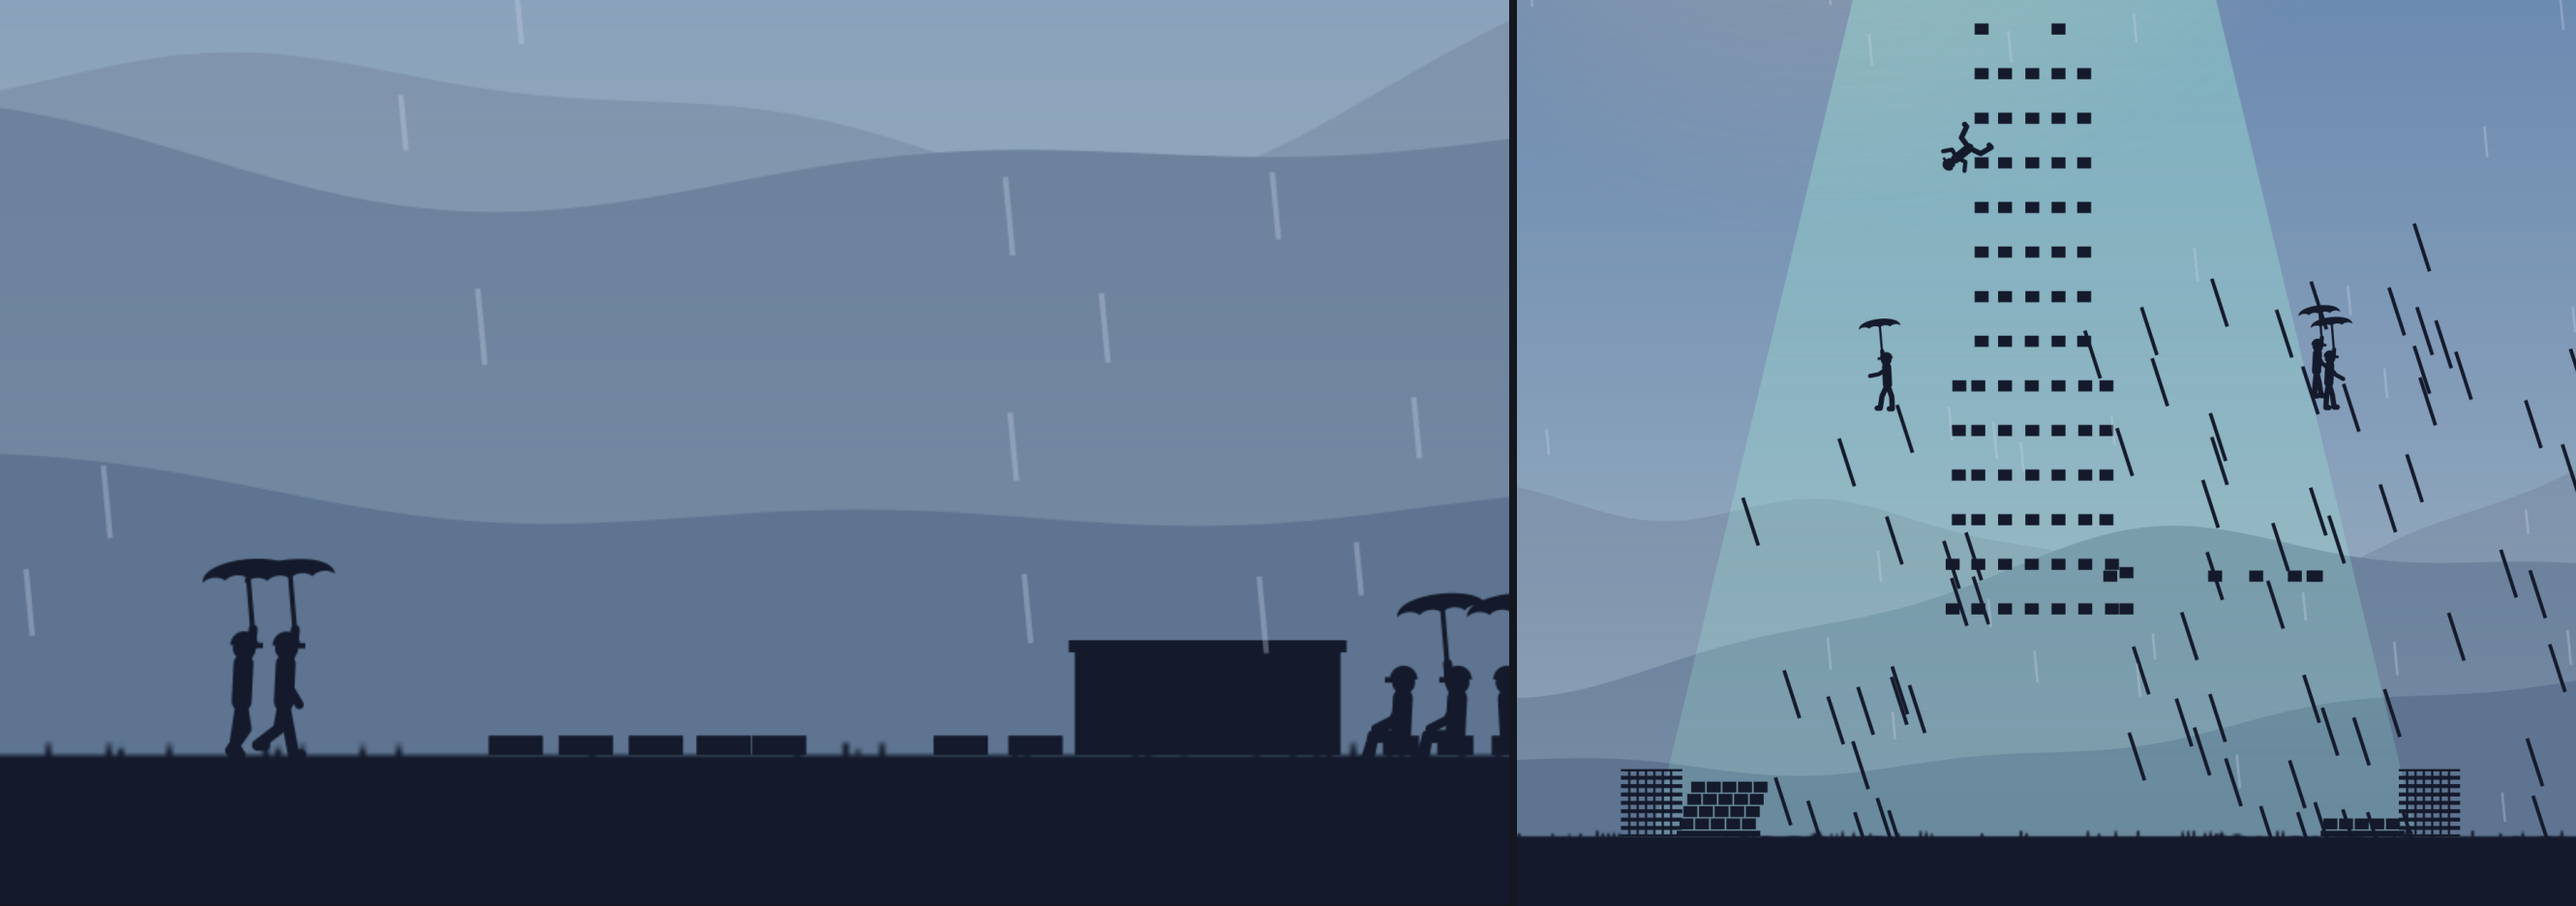
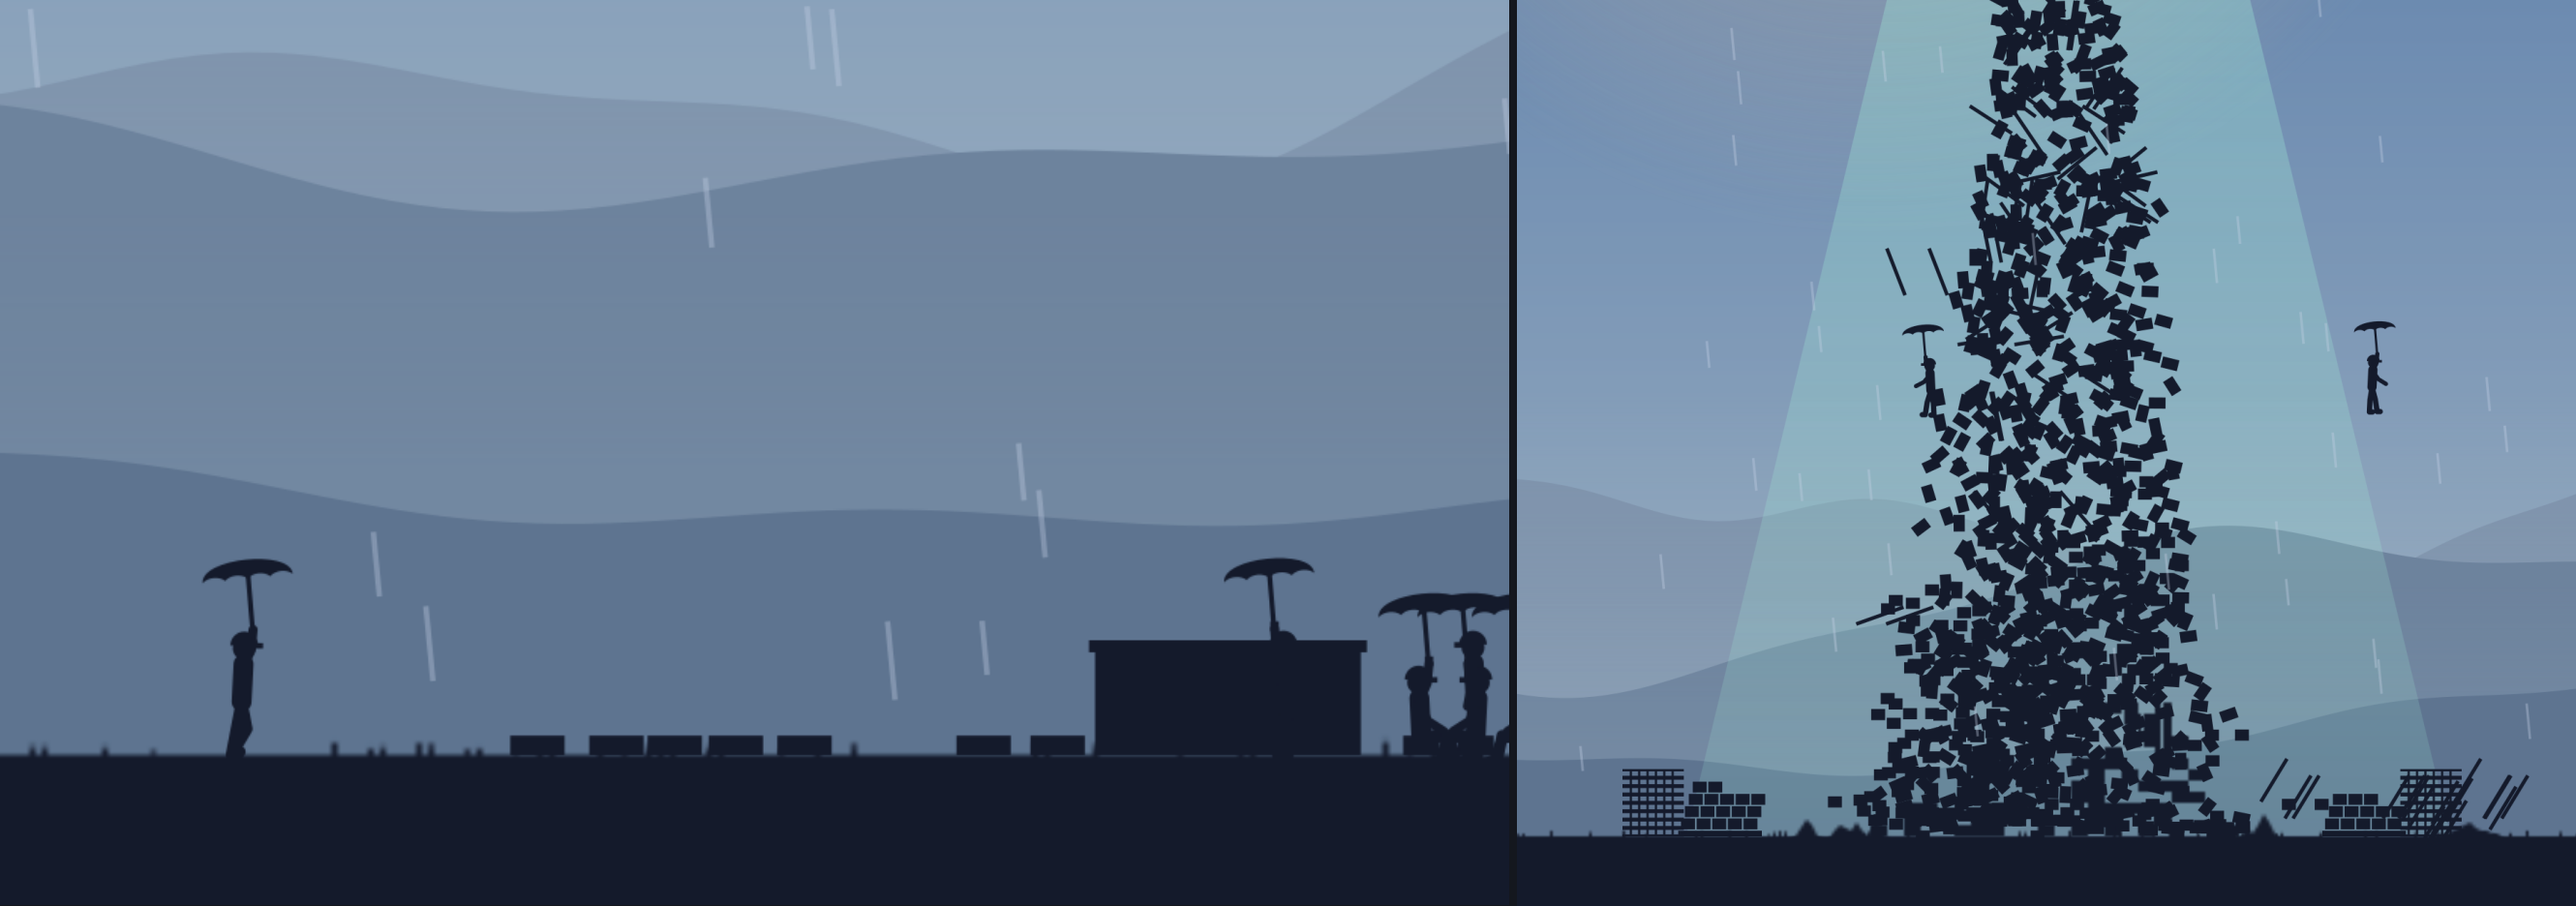
UFO: the beam peels the building apart instead of lifting it in one piece
Every block in the beam used to be taken in the same frame and rise at the
same speed, so the building's grid floated up intact, and the scaffold and
crane burst outward. Now the beam pulls stone off the top first, a few
blocks at a time and deeper as it goes; each block tumbles, lifts off slowly
then faster, swirls round the beam's middle and shrinks into the saucer.
Scaffold sections in the beam are carried off too, and crane pieces outside
it just drop.

diff --git a/live/engine/site.py b/live/engine/site.py
@@ -75,15 +75,19 @@ class Scaffold:
             self.built[side] = self.reserved[side] = lv
             self.undelivered[side] = self.w.levels - lv
 
-    def knock(self, side, lv):
-        """Section lv falls, taking everything above it on that side with it."""
+    def knock(self, side, lv, abduct=False):
+        """Section lv falls, taking everything above it on that side with it (or, in
+        a tractor beam, just that section is carried off)."""
         w = self.w
-        for k in range(lv, w.levels + 1):
+        for k in range(lv, (lv + 1) if abduct else (w.levels + 1)):
             if self.progress[side][k] > 0:
                 self.progress[side][k] = 0.0
                 x, y = w.ladder_x(side, k), w.level_y(k) + w.lift / 2
                 for _ in range(2):
-                    w.add_particle(x, y, w.rng.uniform(-60, 60) * w.u, -w.rng.uniform(20, 120) * w.u, "pole")
+                    if abduct:
+                        w.add_particle(x, y, 0, 0, "pole", abduct=True)
+                    else:
+                        w.add_particle(x, y, w.rng.uniform(-60, 60) * w.u, -w.rng.uniform(20, 120) * w.u, "pole")
         self.set(side, 1, self.progress[side][1])
 
     def sections(self):
@@ -389,17 +393,26 @@ class Crane:
         x0, x1 = self.x, self.jib_end()
         return any(affect(x0 + (x1 - x0) * k / 6, y) for k in range(7))
 
-    def collapse(self):
+    def collapse(self, in_beam=None):
+        """The crane comes apart. in_beam(x, y): a tractor beam is taking it, so the
+        pieces inside it are carried up and the rest simply drop."""
         w, u = self.w, self.w.u
         if not self.present:
             return
+
+        def piece(x, y, vx, vy):
+            if in_beam and in_beam(x, y):
+                w.add_particle(x, y, 0, 0, "pole", abduct=True)
+            elif in_beam:
+                w.add_particle(x, y, w.rng.uniform(-15, 15) * u, 0, "pole")
+            else:
+                w.add_particle(x, y, vx, vy, "pole")
         for i in range(int(self.sections) + 1):
             for _ in range(2):
-                w.add_particle(self.x, w.ground - (i + .5) * w.lift, w.rng.uniform(-90, 90) * u,
-                               -w.rng.uniform(20, 120) * u, "pole")
+                piece(self.x, w.ground - (i + .5) * w.lift, w.rng.uniform(-90, 90) * u, -w.rng.uniform(20, 120) * u)
         y, x0, x1 = self.mast_top(), self.x, self.jib_end()
         for k in range(8):
-            w.add_particle(x0 + (x1 - x0) * k / 7, y, w.rng.uniform(-80, 80) * u, -w.rng.uniform(0, 80) * u, "pole")
+            piece(x0 + (x1 - x0) * k / 7, y, w.rng.uniform(-80, 80) * u, -w.rng.uniform(0, 80) * u)
         for lv, n in self.landings.items():
             for _ in range(min(n, 6)):
                 w.add_particle(self.landing_x(lv), w.level_y(lv) - 4 * u, w.rng.uniform(-60, 60) * u, -40 * u, "brick")

diff --git a/live/engine/world.py b/live/engine/world.py
@@ -33,12 +33,13 @@ CRANE_MIN_LEVELS = 19         # monuments at least this tall (~300 px) get a tow
 
 
 class Particle:
-    __slots__ = ("x", "y", "vx", "vy", "kind", "life", "bounced", "abduct", "dead")
+    __slots__ = ("x", "y", "vx", "vy", "kind", "life", "bounced", "abduct", "dead", "spin")
 
     def __init__(self, x, y, vx, vy, kind, life=0.0, abduct=False):
         self.x, self.y, self.vx, self.vy = x, y, vx, vy
         self.kind, self.life, self.abduct = kind, life, abduct
         self.bounced = self.dead = False
+        self.spin = random.uniform(-1, 1)  # how it tumbles while it's carried off
 
 
 class World:
@@ -469,8 +470,8 @@ class World:
         self.pile_left[side] -= k
         return True
 
-    def add_particle(self, x, y, vx, vy, kind):
-        self.particles.append(Particle(x, y, vx, vy, kind))
+    def add_particle(self, x, y, vx, vy, kind, abduct=False):
+        self.particles.append(Particle(x, y, vx, vy, kind, abduct=abduct))
 
     def on_config_change(self, old_len):
         if self.phase in ("build", "admire") and not self.cycle_override:
@@ -925,11 +926,13 @@ class World:
                 vx, vy = (0, 0) if r == ABDUCT else r
                 self.particles.append(Particle(w.x, w.y - 9 * self.u, vx, vy, "body", abduct=r == ABDUCT))
         if self.crane and self.crane.hit(d.affect):
-            self.crane.collapse()
+            self.crane.collapse(getattr(d, "in_beam", None))
         sc = self.scaffold
         for side, lv in list(sc.sections()):
-            if sc.progress[side][lv] > 0 and d.affect(self.ladders[side][lv], self.level_y(lv) + self.lift / 2):
-                sc.knock(side, lv)
+            if sc.progress[side][lv] > 0:
+                r = d.affect(self.ladders[side][lv], self.level_y(lv) + self.lift / 2)
+                if r:
+                    sc.knock(side, lv, abduct=r == ABDUCT)
         self.collapse_t += dt
         if self.collapse_t > .3:
             self.collapse_t = 0
@@ -1268,7 +1271,16 @@ class World:
                     cr.rectangle(hx - bw / 2, hy - bh / 2, bw, bh)
                     cr.fill()
         for p in self.particles:
-            if p.kind == "brick":
+            if p.kind == "brick" and p.abduct and d:  # a whole block, tumbling and shrinking away
+                k = d.carry_scale(p) if hasattr(d, "carry_scale") else 1.0
+                bw, bh = self.mon.bw * u * k, self.mon.bh * u * k
+                cr.save()
+                cr.translate(p.x, p.y)
+                cr.rotate(p.life * 3 * p.spin)
+                cr.rectangle(-bw / 2, -bh / 2, bw, bh)
+                cr.restore()
+                cr.fill()
+            elif p.kind == "brick":
                 cr.rectangle(p.x - 2.5 * u, p.y - 2 * u, 5 * u, 4 * u)
                 cr.fill()
             elif p.kind == "pole":

diff --git a/live/engine/disasters.py b/live/engine/disasters.py
@@ -1058,16 +1058,35 @@ class UFO(Disaster):
         return 10 * self.u + (y - self.uy) * .24
 
     def affect(self, x, y):
-        if self.beam_on and y > self.uy and abs(x - self.ux) <= self.halfw(y):
+        """The beam peels the building from the top down: only stone near the
+        surface comes loose, a few blocks at a time, the grip deepening as it goes."""
+        if not self.in_beam(x, y):
+            return None
+        w, u = self.w, self.u
+        top = w.solid_top(x)
+        age = self.t - 3.8
+        if top is not None and y - top > (6 + 45 * age) * u:
+            return None  # still buried under stone the beam hasn't pulled off yet
+        if w.rng.random() < .07 + .05 * age:  # checked every frame: blocks lift one by one
             return ABDUCT
         return None
 
+    def in_beam(self, x, y):
+        return self.beam_on and y > self.uy and abs(x - self.ux) <= self.halfw(y)
+
+    def carry_scale(self, p):
+        """Things shrink as they near the saucer, then vanish into it."""
+        return max(.2, min(1.0, (p.y - self.uy) / (110 * self.u)))
+
     def force(self, p, dt):
         if p.abduct:
-            p.vx = (self.ux - p.x) * 1.2
-            p.vy = -(95 + p.life * 8) * self.u
-            p.life += dt
-            if p.y <= self.uy + 8 * self.u:
+            u = self.u
+            rise = min(1.0, p.life / 1.6)  # a slow lift-off, then faster and faster
+            p.vy = -(12 + 150 * rise * rise) * u
+            # swirl round the middle of the beam, drawn in tighter as it rises
+            target = self.ux + math.sin(p.life * 2.6 + p.spin * 6) * self.halfw(p.y) * .45
+            p.vx = (target - p.x) * 1.6
+            if p.y <= self.uy + 6 * u:
                 p.dead = True
 
     def draw_back(self, cr):
